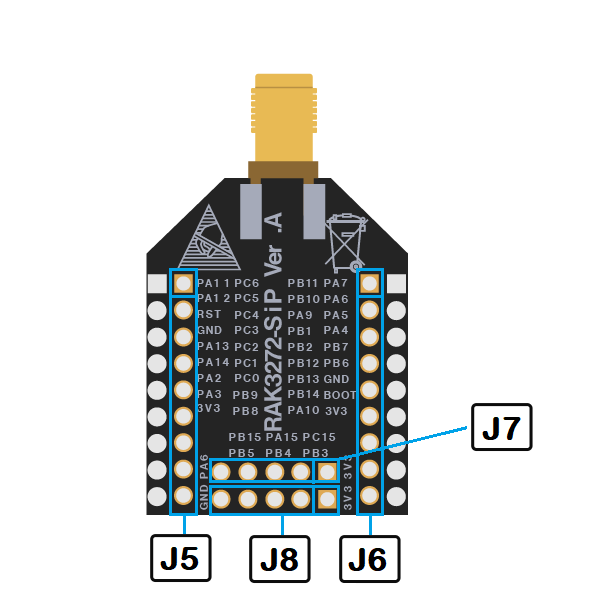
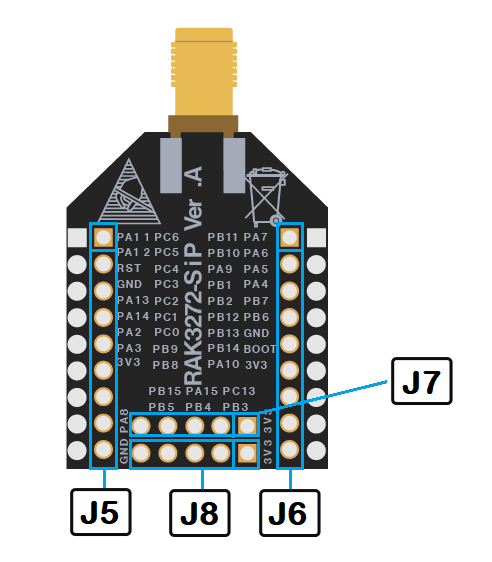
Release (09/16/2022):
- PR#797: RAK3272-SiP and Random Generator updates

Changed region(s): [[0.122, 0.0302, 0.9451, 0.968]]

diff --git a/docs/Product-Categories/WisDuo/RAK3272-SiP-Breakout-Board/Datasheet/README.md b/docs/Product-Categories/WisDuo/RAK3272-SiP-Breakout-Board/Datasheet/README.md
@@ -51,7 +51,7 @@ The bottom view of the RAK3272-SiP Breakout Board is shown in **Figure 2**.
 
 
 <rk-img
-  src="/assets/images/wisduo/rak3272-sip-breakout-board/datasheet/rak3272-sip_breakout-board_back.svg"
+  src="/assets/images/wisduo/rak3272-sip-breakout-board/datasheet/rak3272-sip_breakout-board_back.png"
   width="20%"
   caption="RAK3272-SiP Breakout Board bottom view"
 />
@@ -102,7 +102,7 @@ Make sure to use a LoRa antenna with RP-SMA male connector and compatible with t
 #### Pin Definition
 
 <rk-img
-  src="/assets/images/wisduo/rak3272-sip-breakout-board/datasheet/rak3272-sip-pinout.svg"
+  src="/assets/images/wisduo/rak3272-sip-breakout-board/datasheet/rak3272-sip-pinout.png"
   width="70%"
   caption="RAK3272-SiP Breakout Board J3 and J4 header"
 />
@@ -111,7 +111,7 @@ The pin 1 of the headers are highlighted in a blue rectangle.
 
 <rk-img
   src="/assets/images/wisduo/rak3272-sip-breakout-board/datasheet/rak3272-sip-pinout-back.png"
-  width="60%"
+  width="50%"
   caption="RAK3272-SiP Breakout Board J5 to J8 header"
 />
 
@@ -142,7 +142,7 @@ The tables below show the header definitions of the RAK3272-SiP Breakout Board:
 | 6   | SWCLK    | PA14/SWD debug pin (SWCLK)                          | PA14            |
 | 7   | UART2_TX | UART2/LPUART1 Interface (AT Commands and FW Update) | PA2             |
 | 8   | UART2_RX | UART2/LPUART1 Interface (AT Commands and FW Update) | PA3             |
-| 9   | PA8      | MCU pin PA8                                         | PA8             |
+| 9   | 3V3      | Power Supply                                        | -               |
 
 
 ##### J4 Pin Definitions
@@ -198,7 +198,7 @@ The tables below show the header definitions of the RAK3272-SiP Breakout Board:
 | 2   | PC13     | MCU pin PC13                                        | PC13            |
 | 3   | PA15     | MCU pin PA15                                        | PA15            |
 | 4   | PB15     | MCU pin PB15                                        | PB15            |
-| 5   | GND      | Ground                                              | -               |
+| 5   | PA8      | MCU pin PA8                                         | PA8             |
 
 ##### J8 Pin Definitions
 
@@ -295,7 +295,7 @@ The use of **DCDC** is optional but improve the power efficiency. If you want to
 ##### Schematic Diagram
 
 <rk-img
-  src="/assets/images/wisduo/rak3272-sip-breakout-board/datasheet/rak3272-sip-sch.svg"
+  src="/assets/images/wisduo/rak3272-sip-breakout-board/datasheet/rak3272-sip-sch.png"
   width="100%"
   caption="RAK3272-SiP schematic diagram"
 />

diff --git a/docs/Knowledge-Hub/Learn/Random-Generator/README.md b/docs/Knowledge-Hub/Learn/Random-Generator/README.md
@@ -1,6 +1,6 @@
 ---
 sidebar: false
-rak_img: /assets/images/knowledge-hub/banners/random-generator-temp.png
+rak_img: /assets/images/knowledge-hub/banners/lorandom.jpg
 rak_desc: A guide on how to use the random generator feature of Semtech LoRa transceivers in RAK Modules.  
 tags:
   - Tutorial
@@ -12,7 +12,7 @@ tags:
 header:
   title: Random Numbers and LoRa
   caption: by <b>Kongduino</b>
-  img: /assets/images/knowledge-hub/banners/general_banner.jpg
+  img: /assets/images/knowledge-hub/banners/lorandom-banner.jpg
 posted: 9/13/2022 2:00 PM
 ---
 
@@ -29,6 +29,7 @@ In the SX127x series, the process is a little more involved (and some LoRa libra
 In these older LoRa chips, what you do is read Register 0x2C, the RSSI Wideband Register. This Wideband RSSI measurement can be used to generate a random number, but you have to be careful with the data. If you return the contents of this register and hope to have a number anywhere near random, you'll be disappointed. 
 
 What you need to do is extract the lowest significant bit, bit 0, which is much more probable to be as close to truly random as possible than its neighbors, and add it to a pile of other LSB taken successively from this register. This will create a possibly random number between 0 and 255. With the help of a randomness extractor, you can generate a highly random output that appears independent from the source and uniformly distributed.
+
 With the von Neumann extractor two bits are taken at a time (first and second, then third and fourth, and so on). If the two bits match, no output is generated. If the bits differ, the value of the first bit is added to the stream, and the second is discarded. This is quite simple to implement in C/C++.
 
 ```c
